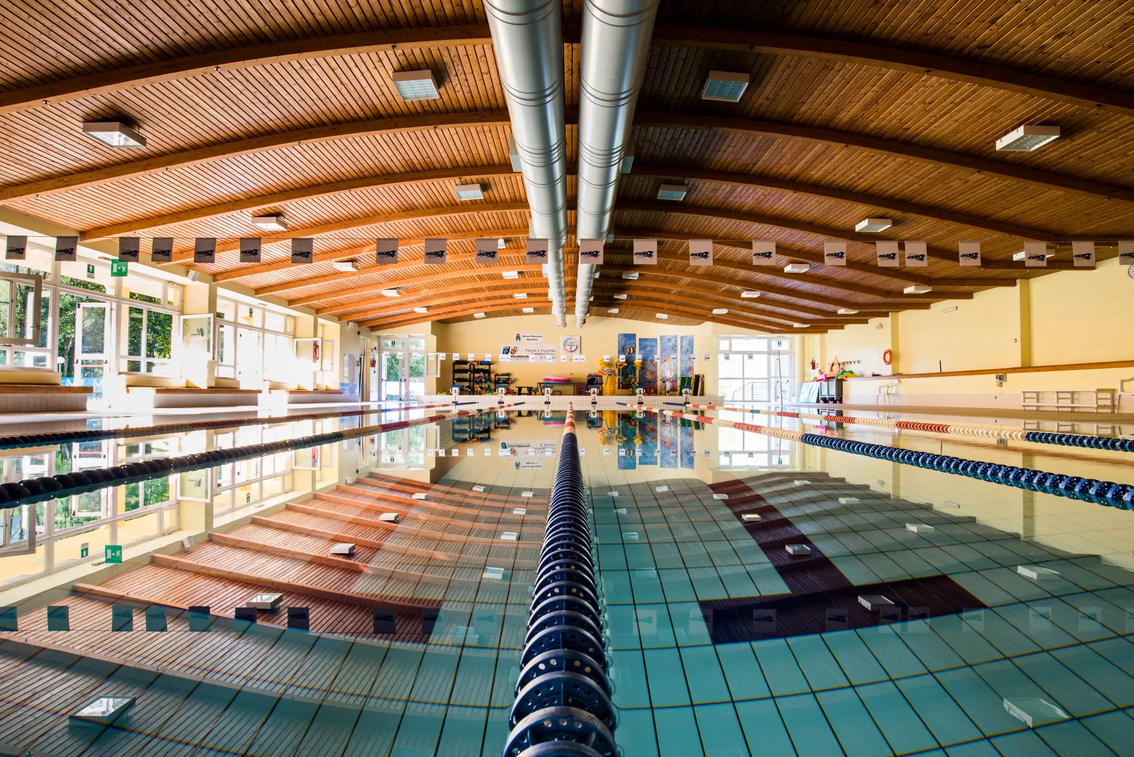
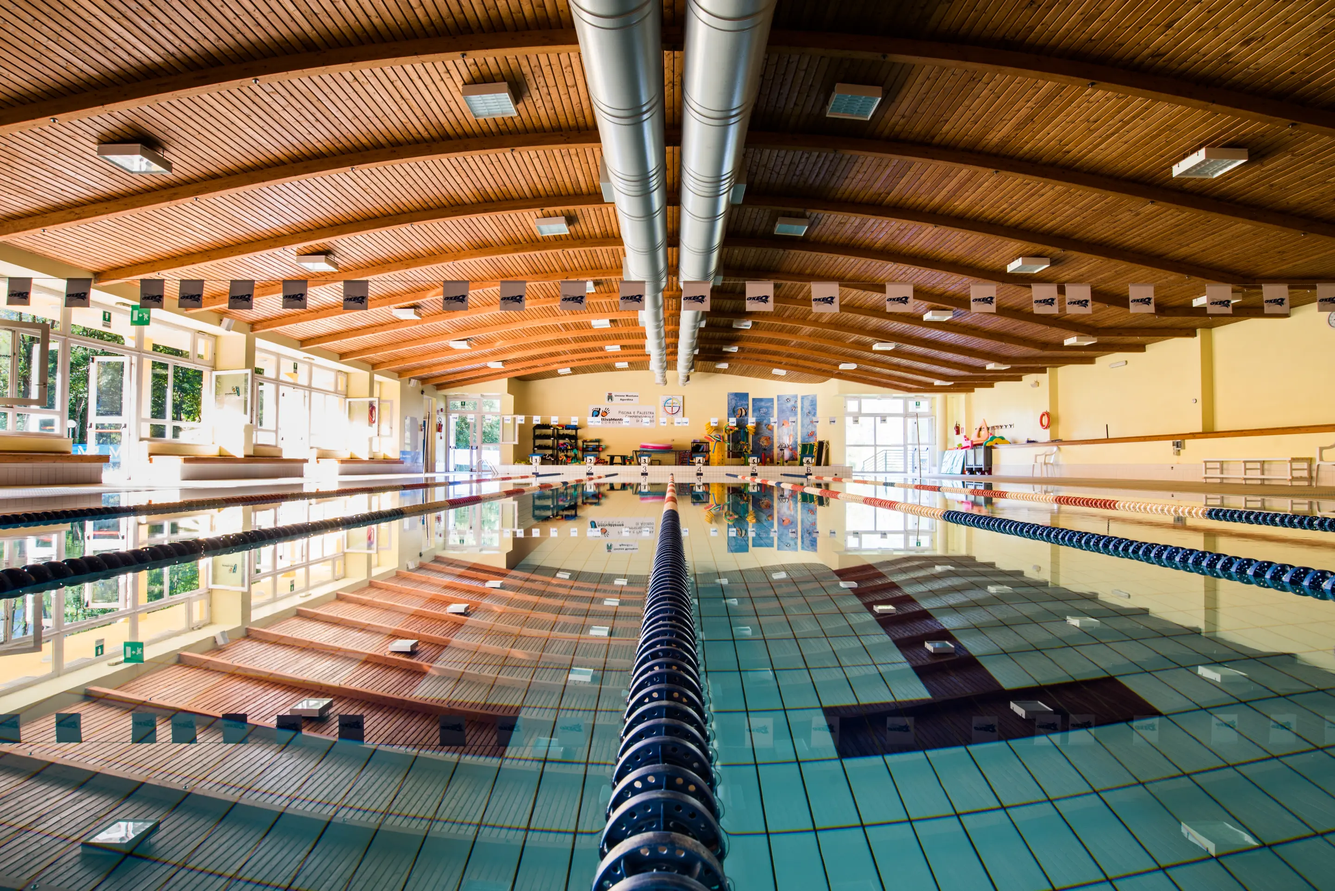
Improved hero image resolution

diff --git a/website/components/HeroSection/HeroSection.tsx b/website/components/HeroSection/HeroSection.tsx
@@ -12,13 +12,13 @@ export const HeroSection = () => {
 	return (
 		<div className="relative flex h-[620px] items-center justify-center">
 			<div className="absolute inset-0">
-				<div className="relative h-full w-[150%]">
+				<div className="pointer-events-none relative h-full w-[150%]">
 					<Image
 						src={heroImage}
-						blurDataURL={heroImage.blurDataURL}
 						objectFit="cover"
+						sizes="150vw"
+						priority
 						layout="fill"
-						quality={100}
 						alt="Foto del piano vasca della piscina"
 					/>
 				</div>
